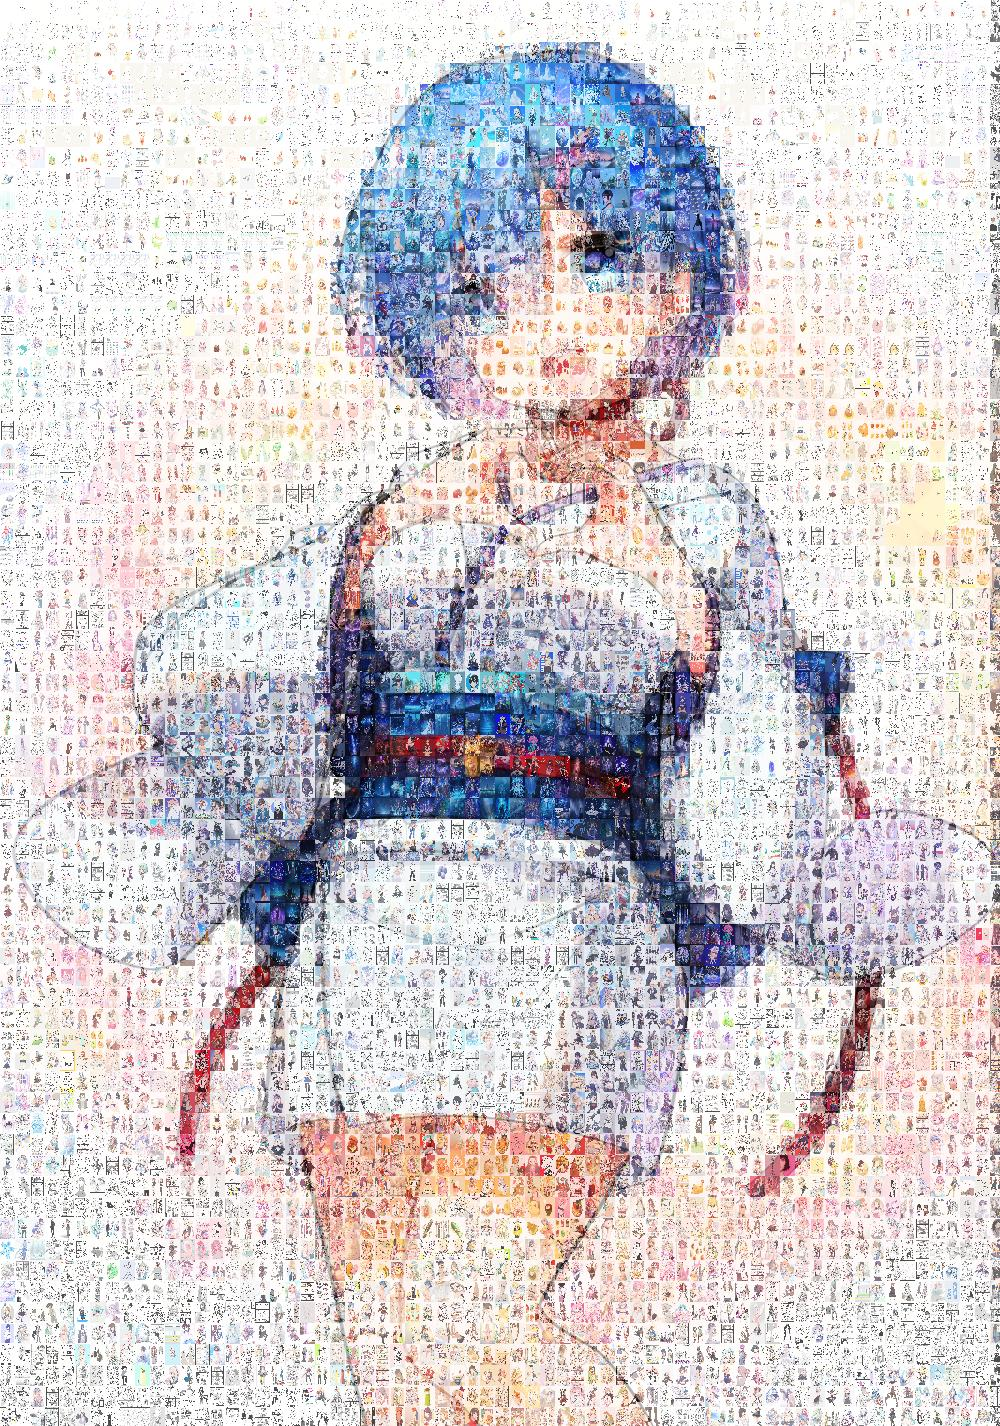
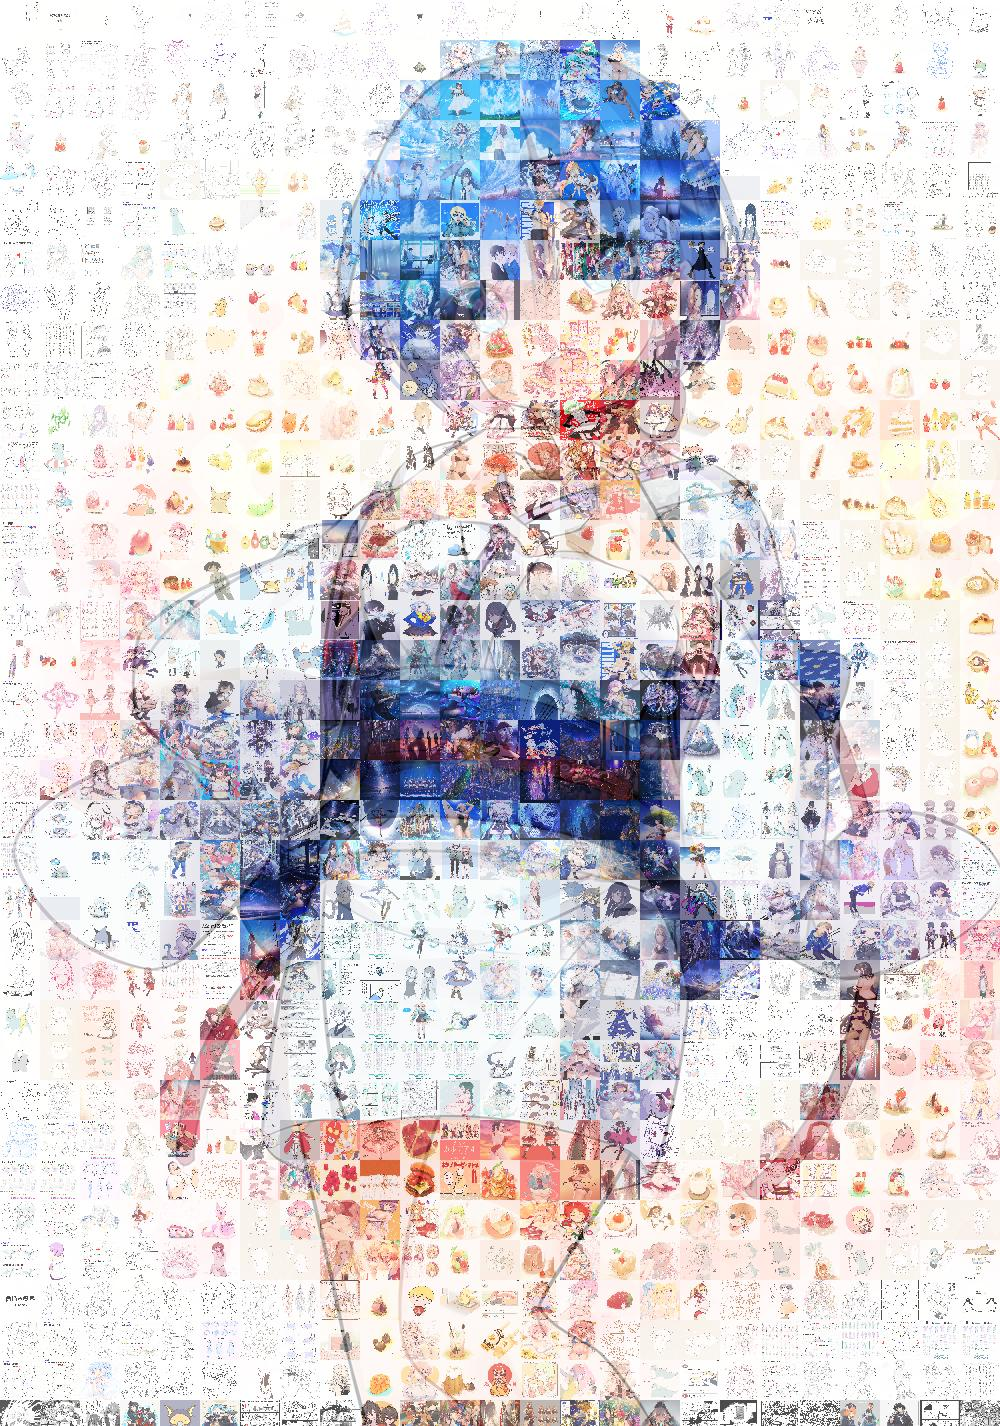
remove amount added size

diff --git a/main.py b/main.py
@@ -118,15 +118,15 @@ class ImageDatabase:
 
 
 
-def _load_database(folder, chunk_width, chunk_height, repeat):
+def _load_database(folder, size, repeat):
     file_name = folder + '.imagedatabase'
-    database = ImageDatabase(folder, (chunk_width, chunk_height))
+    database = ImageDatabase(folder, (size, size))
     files_found = database.files_size
-    total_chunks = chunk_width * chunk_height
+    total_chunks = size * size
 
     if os.path.exists(file_name):
         print('found existing database:', file_name)
-        if chunk_width > DATABASE_IMG_SIZE or chunk_height > DATABASE_IMG_SIZE:
+        if size > DATABASE_IMG_SIZE or size > DATABASE_IMG_SIZE:
             raise pickle.PicklingError('Database size does not satisfy requirement for this image, rebuilding ...')
         try:
             with open(file_name, 'rb') as file:
@@ -136,7 +136,7 @@ def _load_database(folder, chunk_width, chunk_height, repeat):
 
             if files_found == files_in_old_database:
                 print('using existing database')
-                existing_database.crop(chunk_width, chunk_height)
+                existing_database.crop(size, size)
                 return existing_database
 
             while True:
@@ -173,39 +173,43 @@ def _load_database(folder, chunk_width, chunk_height, repeat):
 
     return database
 
-def make_from(img, folder, amountx, amounty, use_repeat=True):
+
+def make_from(img, folder, size, use_repeat=True):
 
     width, height = img.size
-
-    chunk_width = math.ceil(width / amountx)
-    chunk_height = math.ceil(height / amounty)
-
-    total_chunks =  math.ceil(width / chunk_width) *  math.ceil(height / chunk_height)
+    total_chunks =  math.ceil(width / size) *  math.ceil(height / size)
 
     print('result dimension:', width, height)
     print('total chunks:', total_chunks)
     print('repeat:', use_repeat)
 
-    if chunk_width < 1 or chunk_height < 1:
-        raise ValueError('width or height for each small piece of images is less than 1px:', width, height, '/', amountx, amounty)
+    if size < 1 or size < 1:
+        raise ValueError('width or height for each small piece of images is less than 1px:', width, height, '/', size, size)
 
-    database = _load_database(folder, chunk_width, chunk_height, repeat)
+    database = _load_database(folder, size, repeat)
+
+    if len(database.imgs) < total_chunks:
+        raise ValueError('Folder does not contains enough images:', total_chunks, '<', len(database.imgs))
 
     chunk_count = 0
     background = Image.new('RGB', img.size, 'black')
     print('building image from database ...')
-    for h in range(0, height, chunk_height):
-        for w in range(0, width, chunk_width):
-            btmx = w + chunk_width
-            btmy = h + chunk_height
-            curr_chunk = img.crop((w, h, btmx, btmy))
-            best_match = database.find_closest(curr_chunk)
-            background.paste(best_match.img, (w, h))
-            if not use_repeat:
-                database.remove(best_match) # remove used images
-            chunk_count += 1
-            print('\r >>>', chunk_count, '/' , total_chunks, '=> {}%'.format(math.ceil(chunk_count / total_chunks * 100)),  end='')
-    print(' done')
+        for h in range(0, height, size):
+            for w in range(0, width, size):
+                btmx = w + size
+                btmy = h + size
+                if btmx > width:
+                    btmx = width
+                if btmy > height:
+                    btmY = height
+                curr_chunk = img.crop((w, h, btmx, btmy))
+                best_match = database.find_closest(curr_chunk)
+                background.paste(best_match.img, (w, h))
+                if use_repeat:
+                    database.remove(best_match) # remove used images
+                chunk_count += 1
+                print('\r >>>', chunk_count, '/' , total_chunks, '=> {}%'.format(math.ceil(chunk_count / total_chunks * 100)),  end='')
+        print(' done')
 
     return background
 
@@ -216,8 +220,7 @@ def main():
     parser.add_argument('source', help='the image to stimulate')
     parser.add_argument('folder', help='the folder containing images used to stimulate the source')
     parser.add_argument('destination', help='the base name of the output file, not including extension')
-    parser.add_argument('amountx', type=int, help='the number of pieces to break down width')
-    parser.add_argument('amounty', type=int, help='the number of pieces to break down height')
+    parser.add_argument('size', type=int, help='the size of each pieces')
     parser.add_argument('-r', '--repeat', action='store_true', help='allow build with repeating images')
     args = parser.parse_args()
 
@@ -225,13 +228,15 @@ def main():
     output_file = args.destination + '{}.jpg'
     database_folder = args.folder
     src = Image.open(input_file)
-    background = make_from(src, database_folder, args.amountx, args.amounty, use_repeat=args.repeat)
+    background = make_from(src, database_folder, args.size, use_repeat=args.repeat)
     background.save(args.destination + '_background_{}.jpg'.format('repeat' if repeat else 'no_repeat'))
+    print('Creating different blended image')
     for blend_percent in range(0, 10):
         blend_percent = blend_percent / 10
         image = Image.blend(src, background, blend_percent)
         image.save(output_file.format(blend_percent))
-    print('done =>', output_file)
+        print('\r {}'.format(blend_percent), end='')
+    print(' done =>', output_file)
 
 if __name__ == '__main__':
     main()
